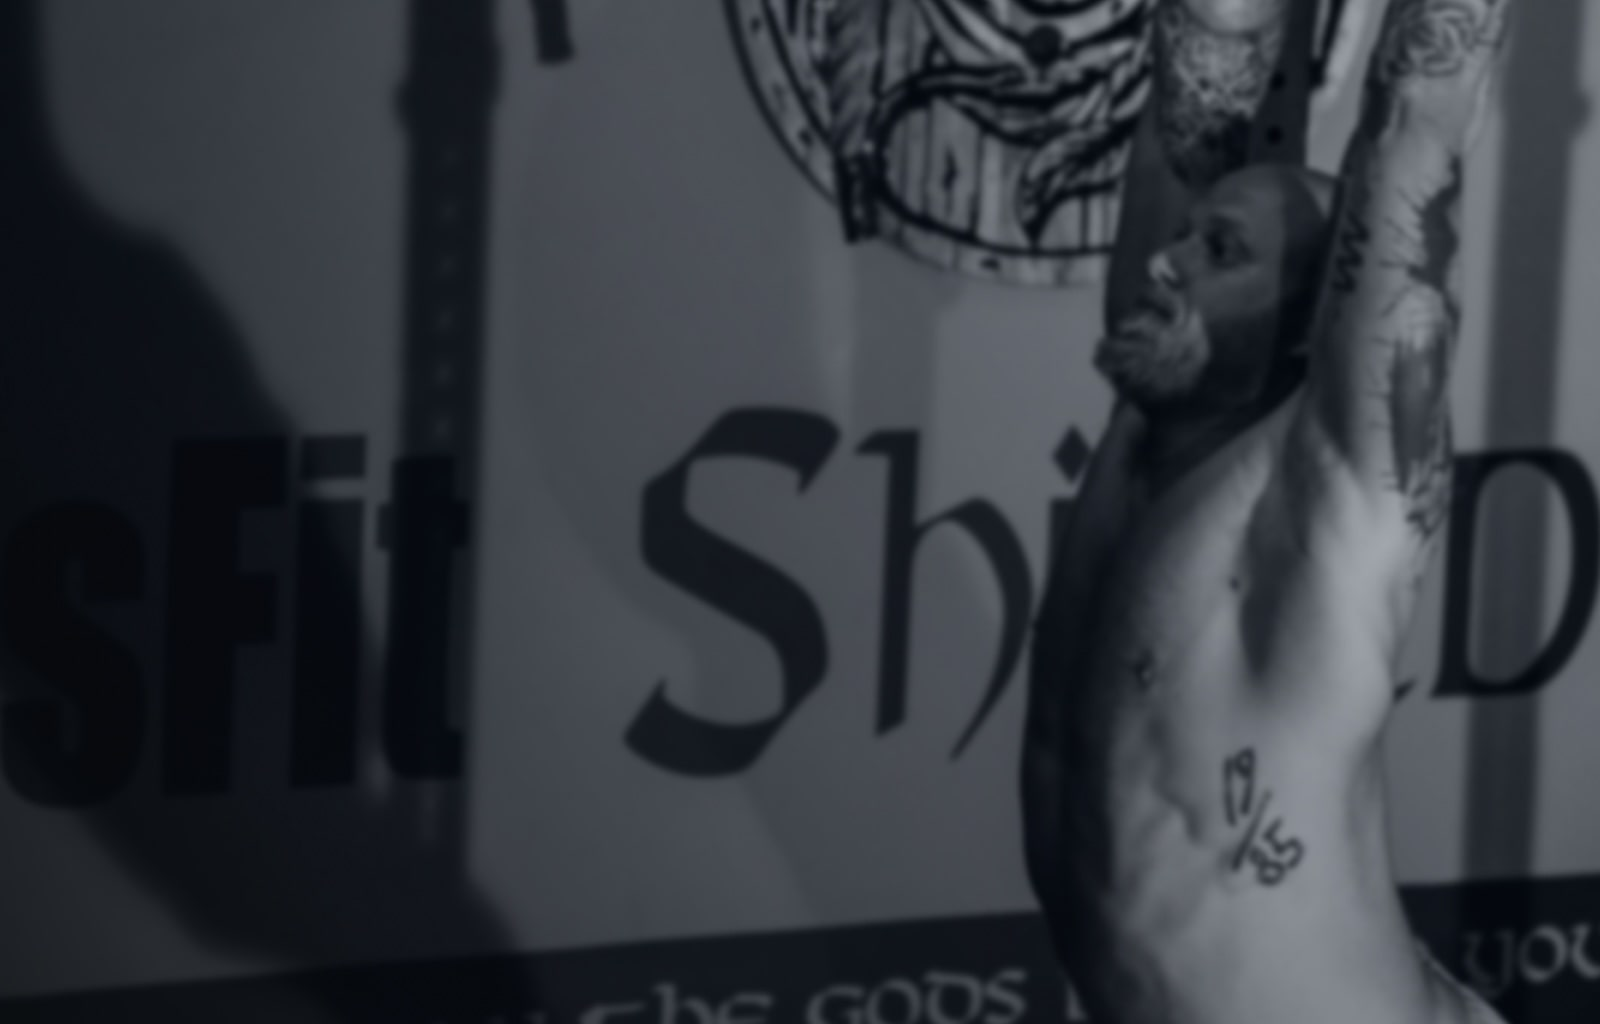
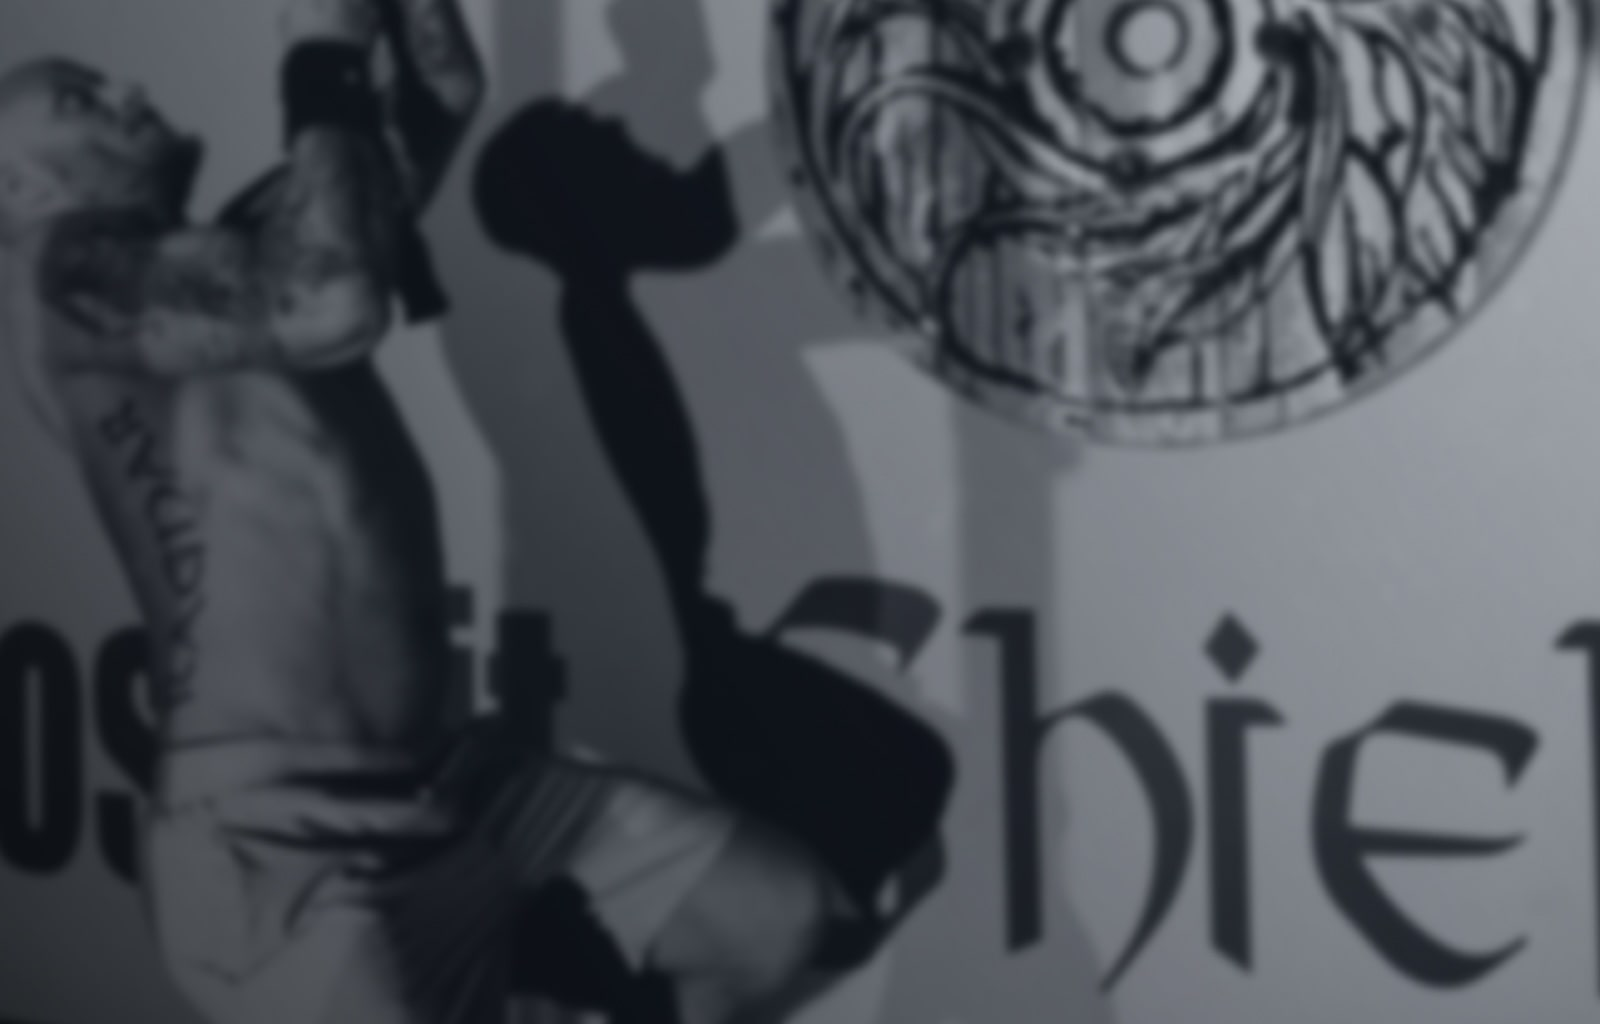
change image

diff --git a/_sass/main.scss b/_sass/main.scss
@@ -261,7 +261,7 @@ a {
     background-color: #000;
     background-size: cover;
     background-position: center center;
-    background: url("/assets/images/bg-ext2.jpg");
+    background: url("/assets/images/bg-contact.jpg");
     padding: 80px 20px;
 
     .social {
